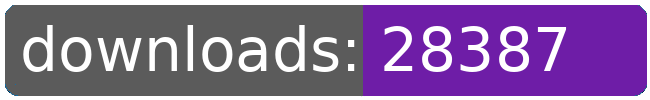
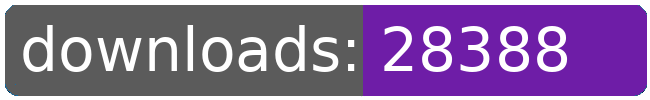
dl log written

Changed region(s): [[0.8, 0.24, 0.8923, 0.72]]

diff --git a/README.md b/README.md
@@ -21,8 +21,8 @@
 		<td>2054</td>
 		<td>2080</td>
 		<td>2110</td>
-		<td>2129</td>
-		<td>+ 19</td>
+		<td>2130</td>
+		<td>+ 20</td>
 	</tr>
 	<tr>
 		<td>aberrant.kahet.outfitter</td>
@@ -252,8 +252,8 @@
 		<td></td>
 		<td></td>
 		<td></td>
-		<td>28387</td>
-		<td>184</td>
+		<td>28388</td>
+		<td>185</td>
 	</tr>
 </table>
 </sub></sup>
@@ -278,8 +278,8 @@
 		<td>2054</td>
 		<td>2080</td>
 		<td>2110</td>
-		<td>2129</td>
-		<td>+ 19</td>
+		<td>2130</td>
+		<td>+ 20</td>
 	</tr>
 	<tr>
 		<td>aberrant.kahet.outfitter</td>
@@ -509,8 +509,8 @@
 		<td></td>
 		<td></td>
 		<td></td>
-		<td>28387</td>
-		<td>184</td>
+		<td>28388</td>
+		<td>185</td>
 	</tr>
 </table>
 </sub></sup>
